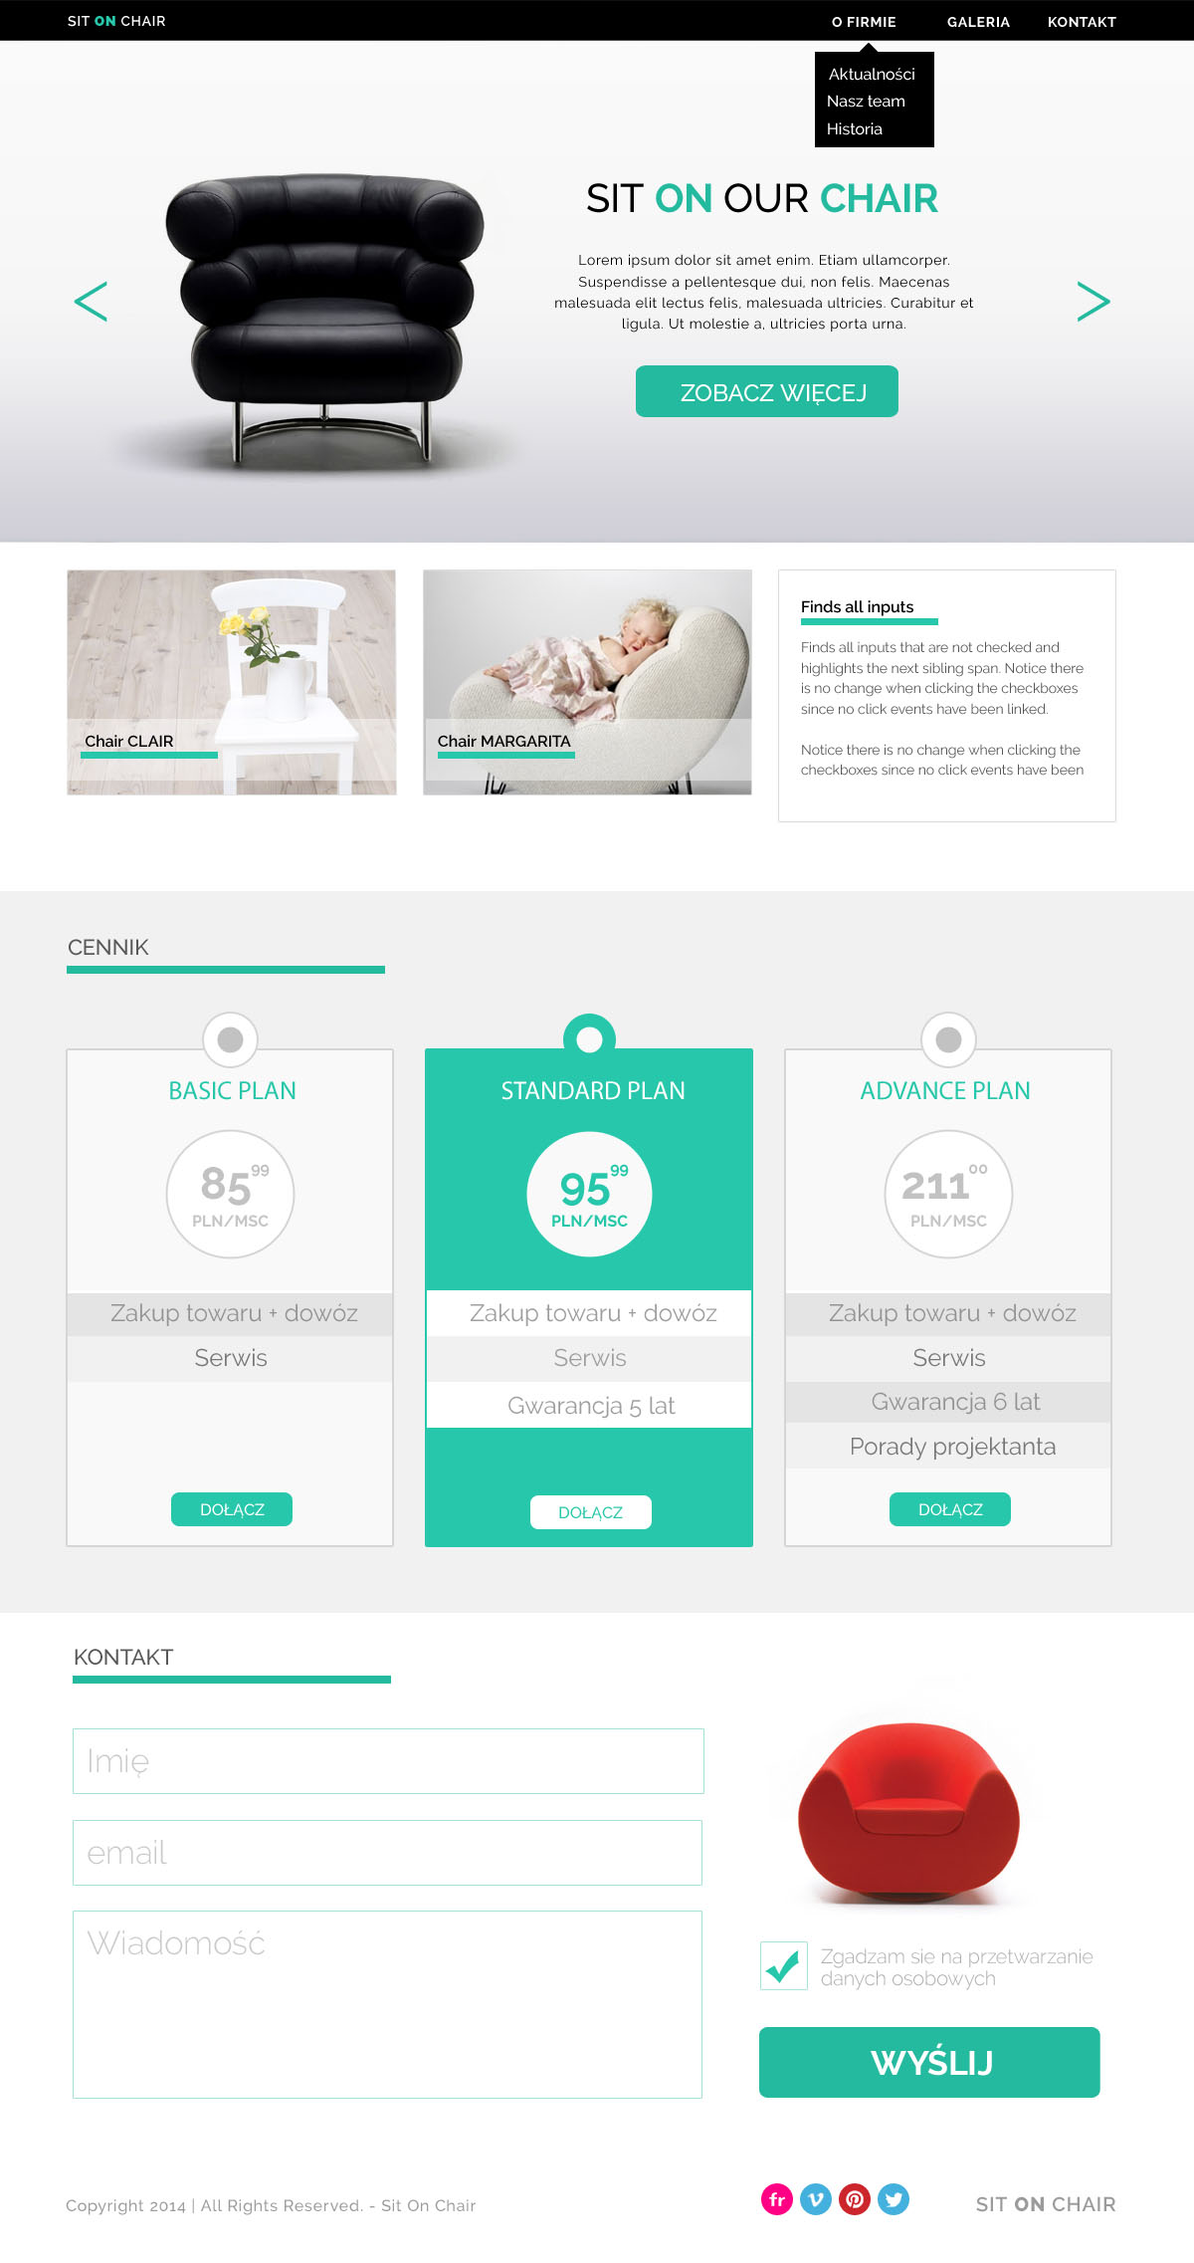
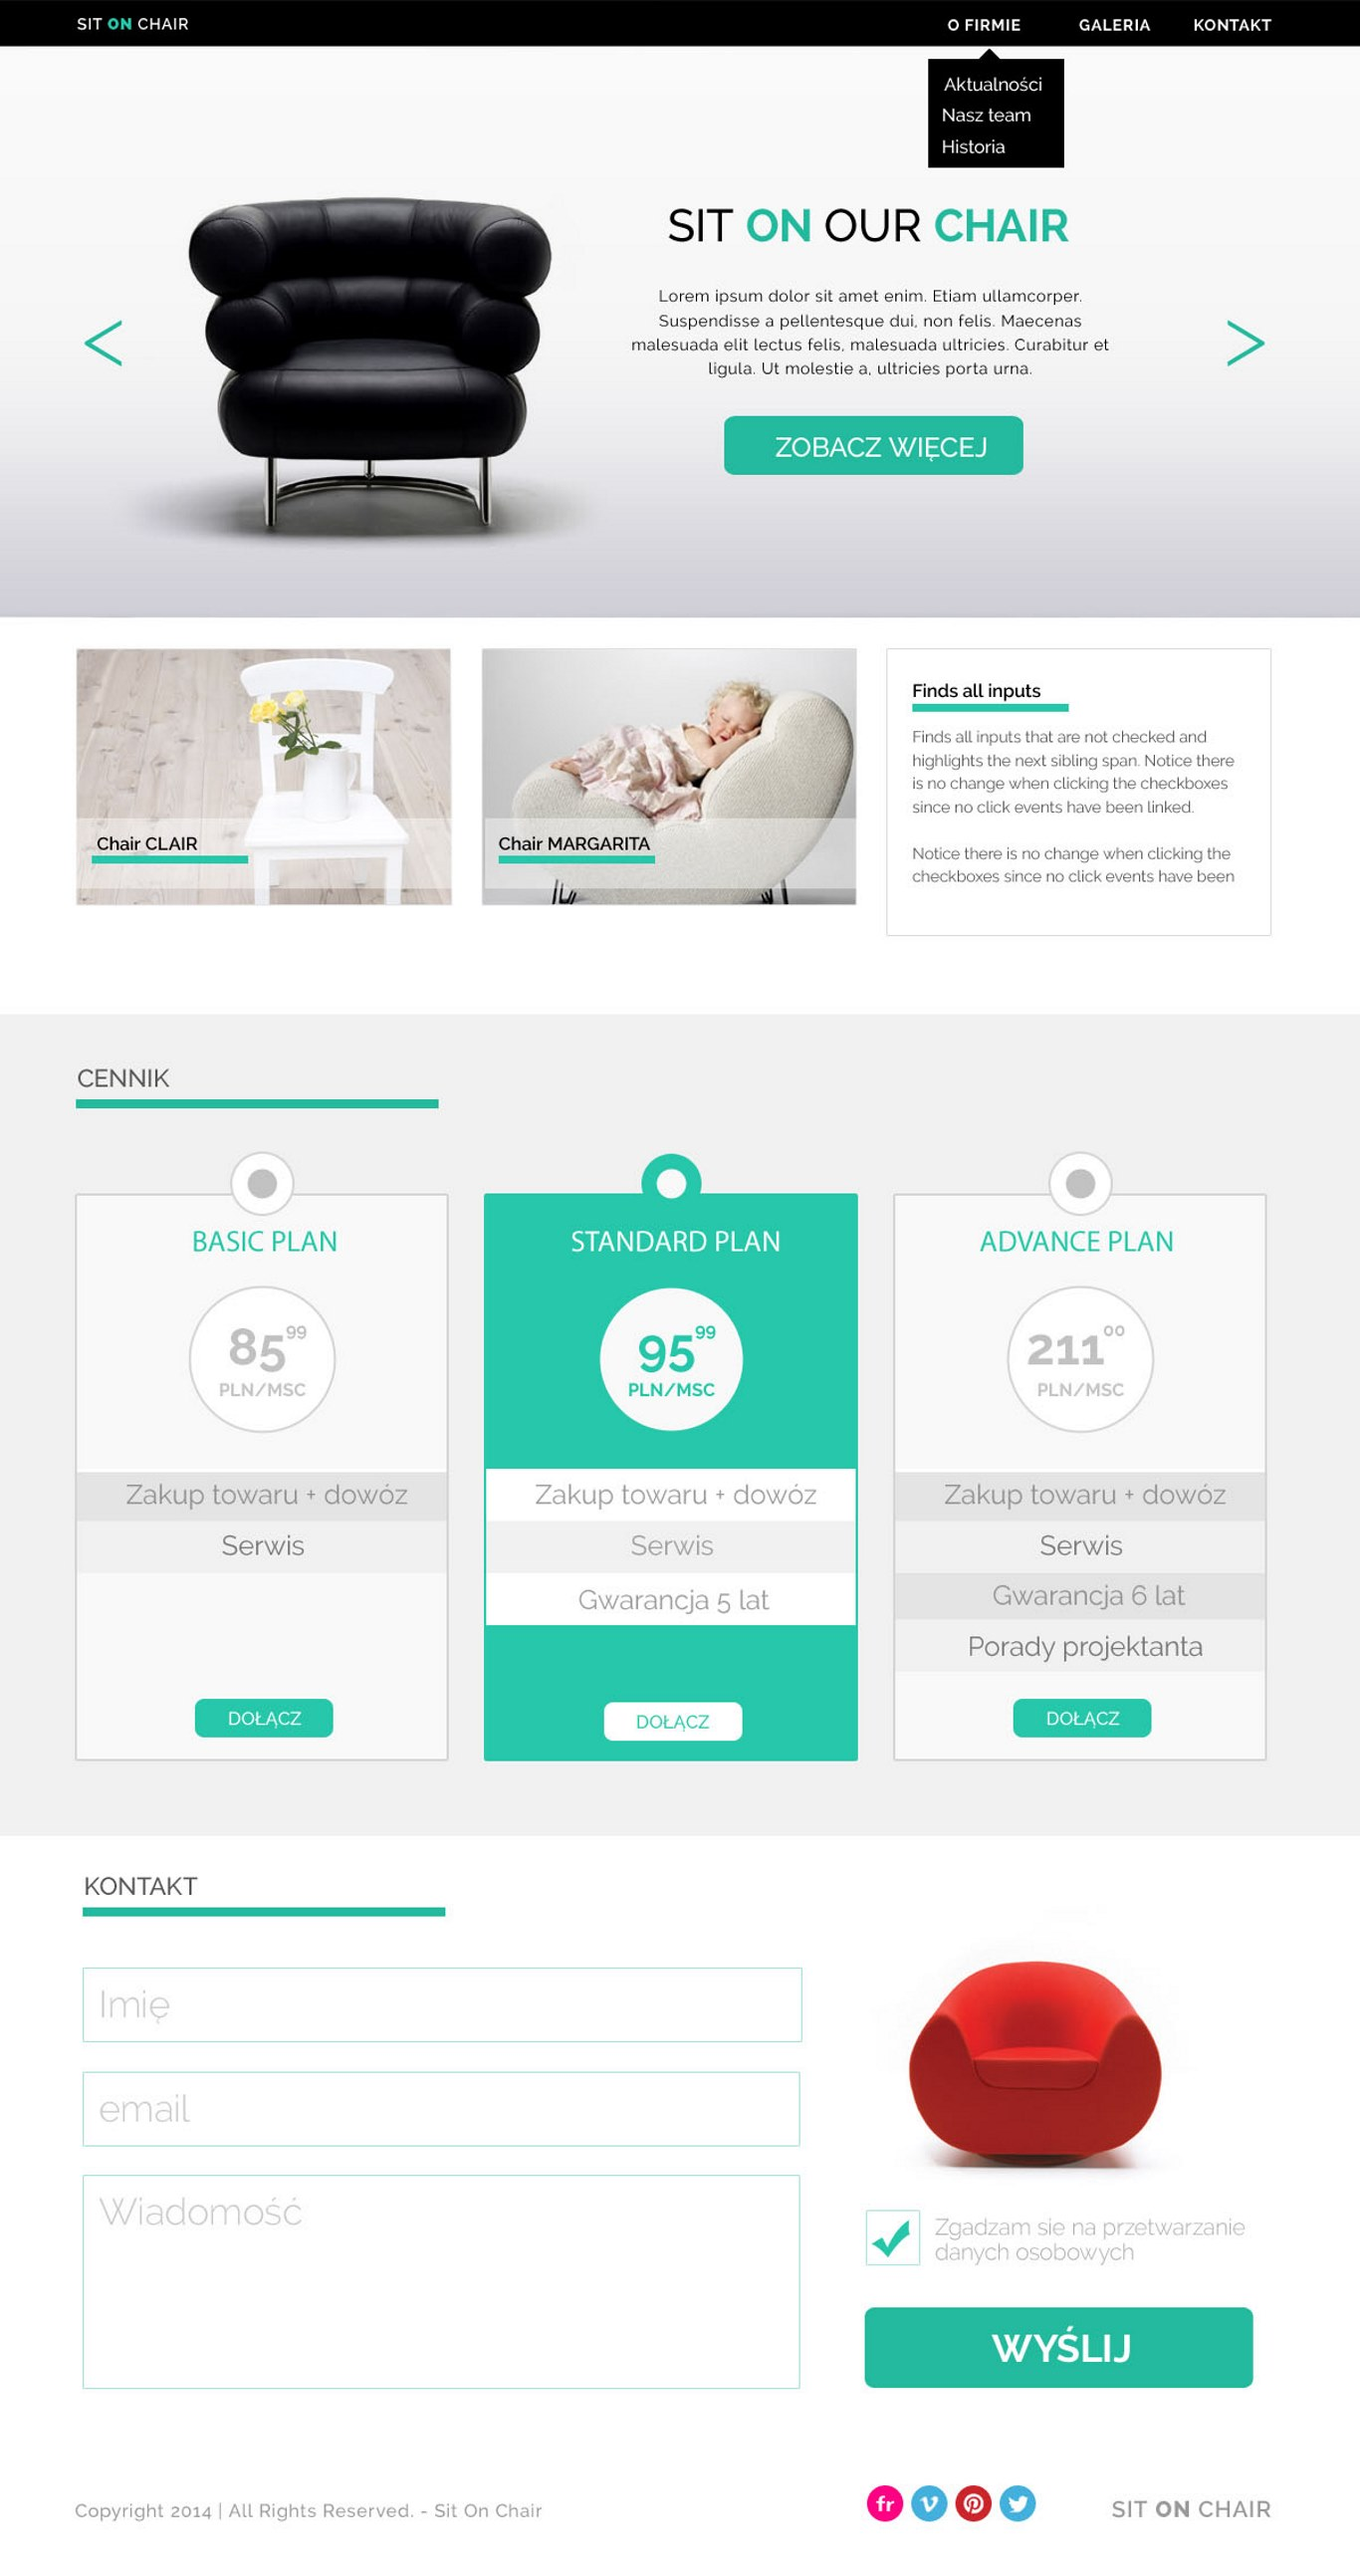
slider

diff --git a/index.html b/index.html
@@ -1,8 +1,8 @@
 <!DOCTYPE html>
-<html>
+<html lang="pl-PL">
     <head>
+        <meta charset="UTF-8">
         <link href="css/style.css" type="text/css" rel="stylesheet">
-        <meta charset="utf-8">
         <title>SIT ON OUR CHAIR - Site</title>
     </head>
     <body>
@@ -10,20 +10,19 @@
             <nav class="container">
                 <div class="logo">SIT <span>ON</span> CHAIR</div>
                 <ul>
-                    <li>O FIRMIE</li>
-                    <li>GALERIA</li>
-                    <li>KONTAKT</li>
+                    <li><a href="#">O FIRMIE</a></li>
+                    <li><a href="#">GALERIA</a></li>
+                    <li><a href="#">KONTAKT</a></li>
                 </ul>
             </nav>
         </header>
         <main>
-            <section class="slaider">
+            <section class="slider">
                 <div class="container">
                     <div class="arrow left">&lt;</div>
-                    <div class="slaider-content right">
-                        <figure class="slaider-chair"></figure>
-                        <div class="slaider-text">
-                            <h1>SIT ON OUR CHAIR</h1>
+                    <div class="slider-content">
+                        <div class="slider-text">
+                            <h1>SIT <span>ON OUR <span>CHAIR</span></h1>
                             <p>
                                 Lorem ipsum dolor sit amet, consectetur adipiscing elit. Sed auctor arcu nec mi ultrices posuere. Sed nunc justo, luctus nec nisi eu, pellentesque venenatis nulla. Vestibulum non vestibulum quam.
                             </p>

diff --git a/css/style.css b/css/style.css
@@ -30,19 +30,19 @@ html {
     margin: 0 auto;
     border: 1px solid red;
 }
-.left {
-    float: left;
+a {
+    text-decoration: none;
 }
-.right {
-    float: right;
+span {
+    font-weight: bold;
+    color: #21b9a2;
 }
+
 /* header */
 header {
     background-color: black;
     color: white;
-}
-nav {
-    height: 
+    width: 100%;
 }
 div.logo {
     float:left;
@@ -63,8 +63,8 @@ nav:after {
 }
 /* main */
 
-/* slaider */
-section.slaider {
+/* slider */
+section.slider {
     height: 500px;
     background: rgba(251,251,251,1);
     background: -moz-linear-gradient(top, rgba(251,251,251,1) 0%, rgba(251,251,251,1) 65%, rgba(203,202,207,1) 100%);
@@ -74,5 +74,24 @@ section.slaider {
     background: -ms-linear-gradient(top, rgba(251,251,251,1) 0%, rgba(251,251,251,1) 65%, rgba(203,202,207,1) 100%);
     background: linear-gradient(to bottom, rgba(251,251,251,1) 0%, rgba(251,251,251,1) 65%, rgba(203,202,207,1) 100%);
 }
-
+.slider-content {
+    width: 500px;
+    /*position: relative;*/
+}
+.arrow {
+    /*position: absolute;*/
+    font-size: 47px;
+}
+.left {
+    float: left;
+}
+.right {
+    float: right;
+}
+div.slider-text {
+    position: center;
+}
+div.slider-text p {
+    text-align: center;
+}
 
